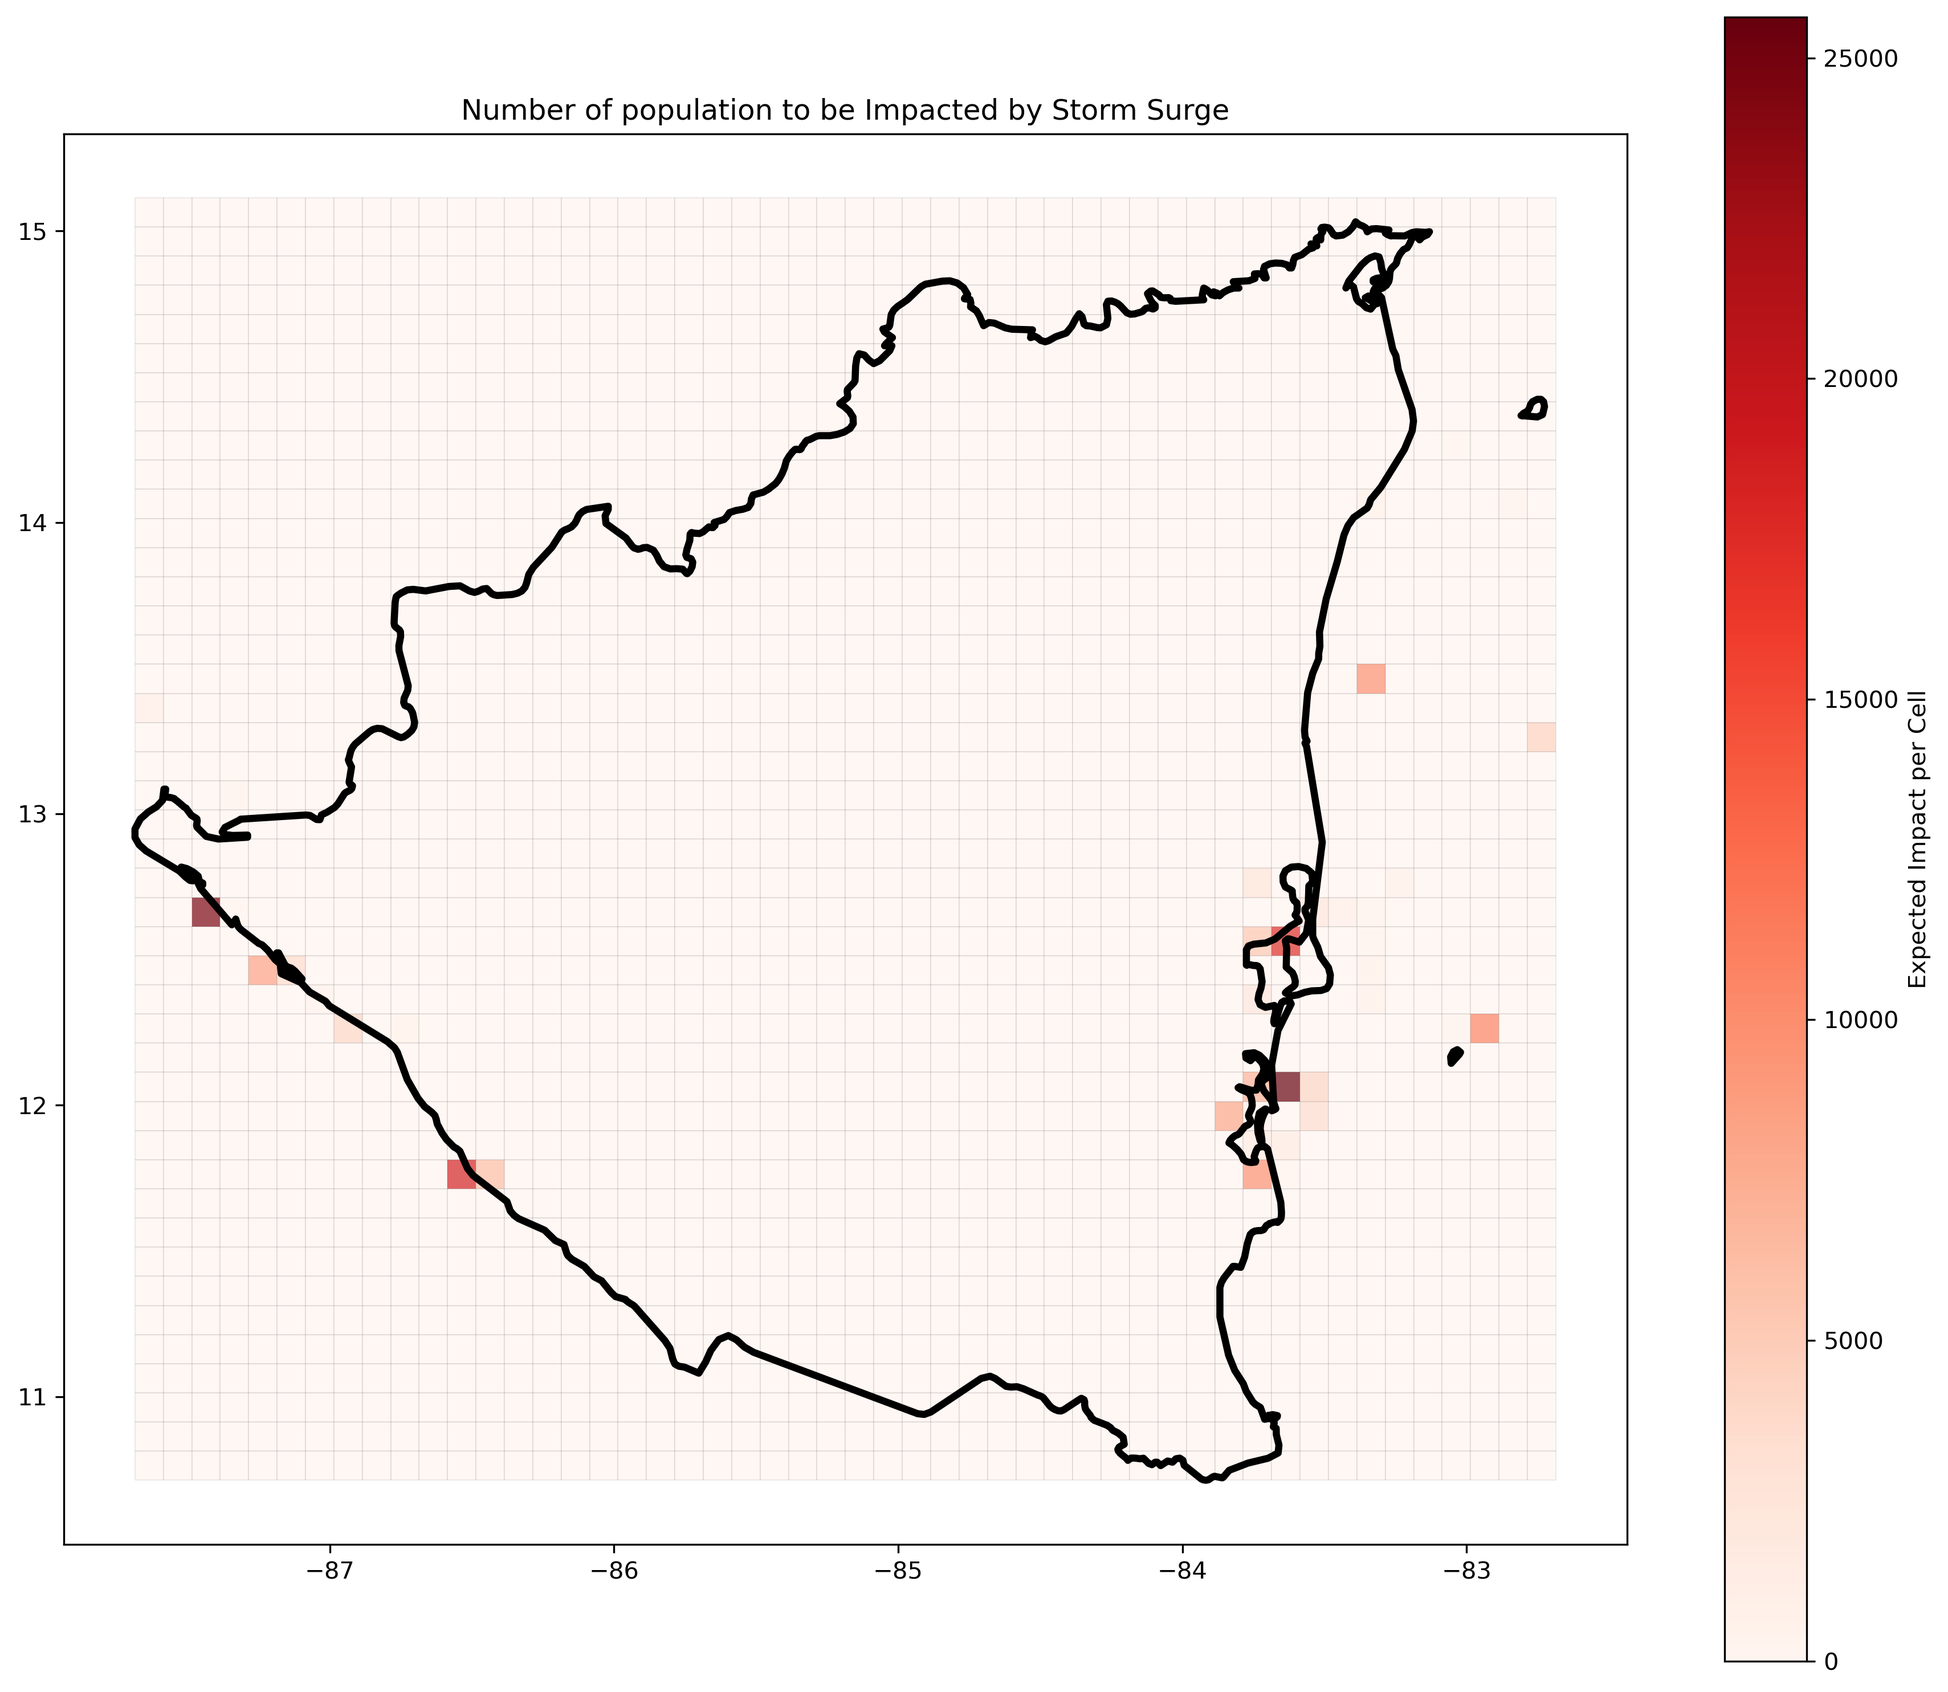
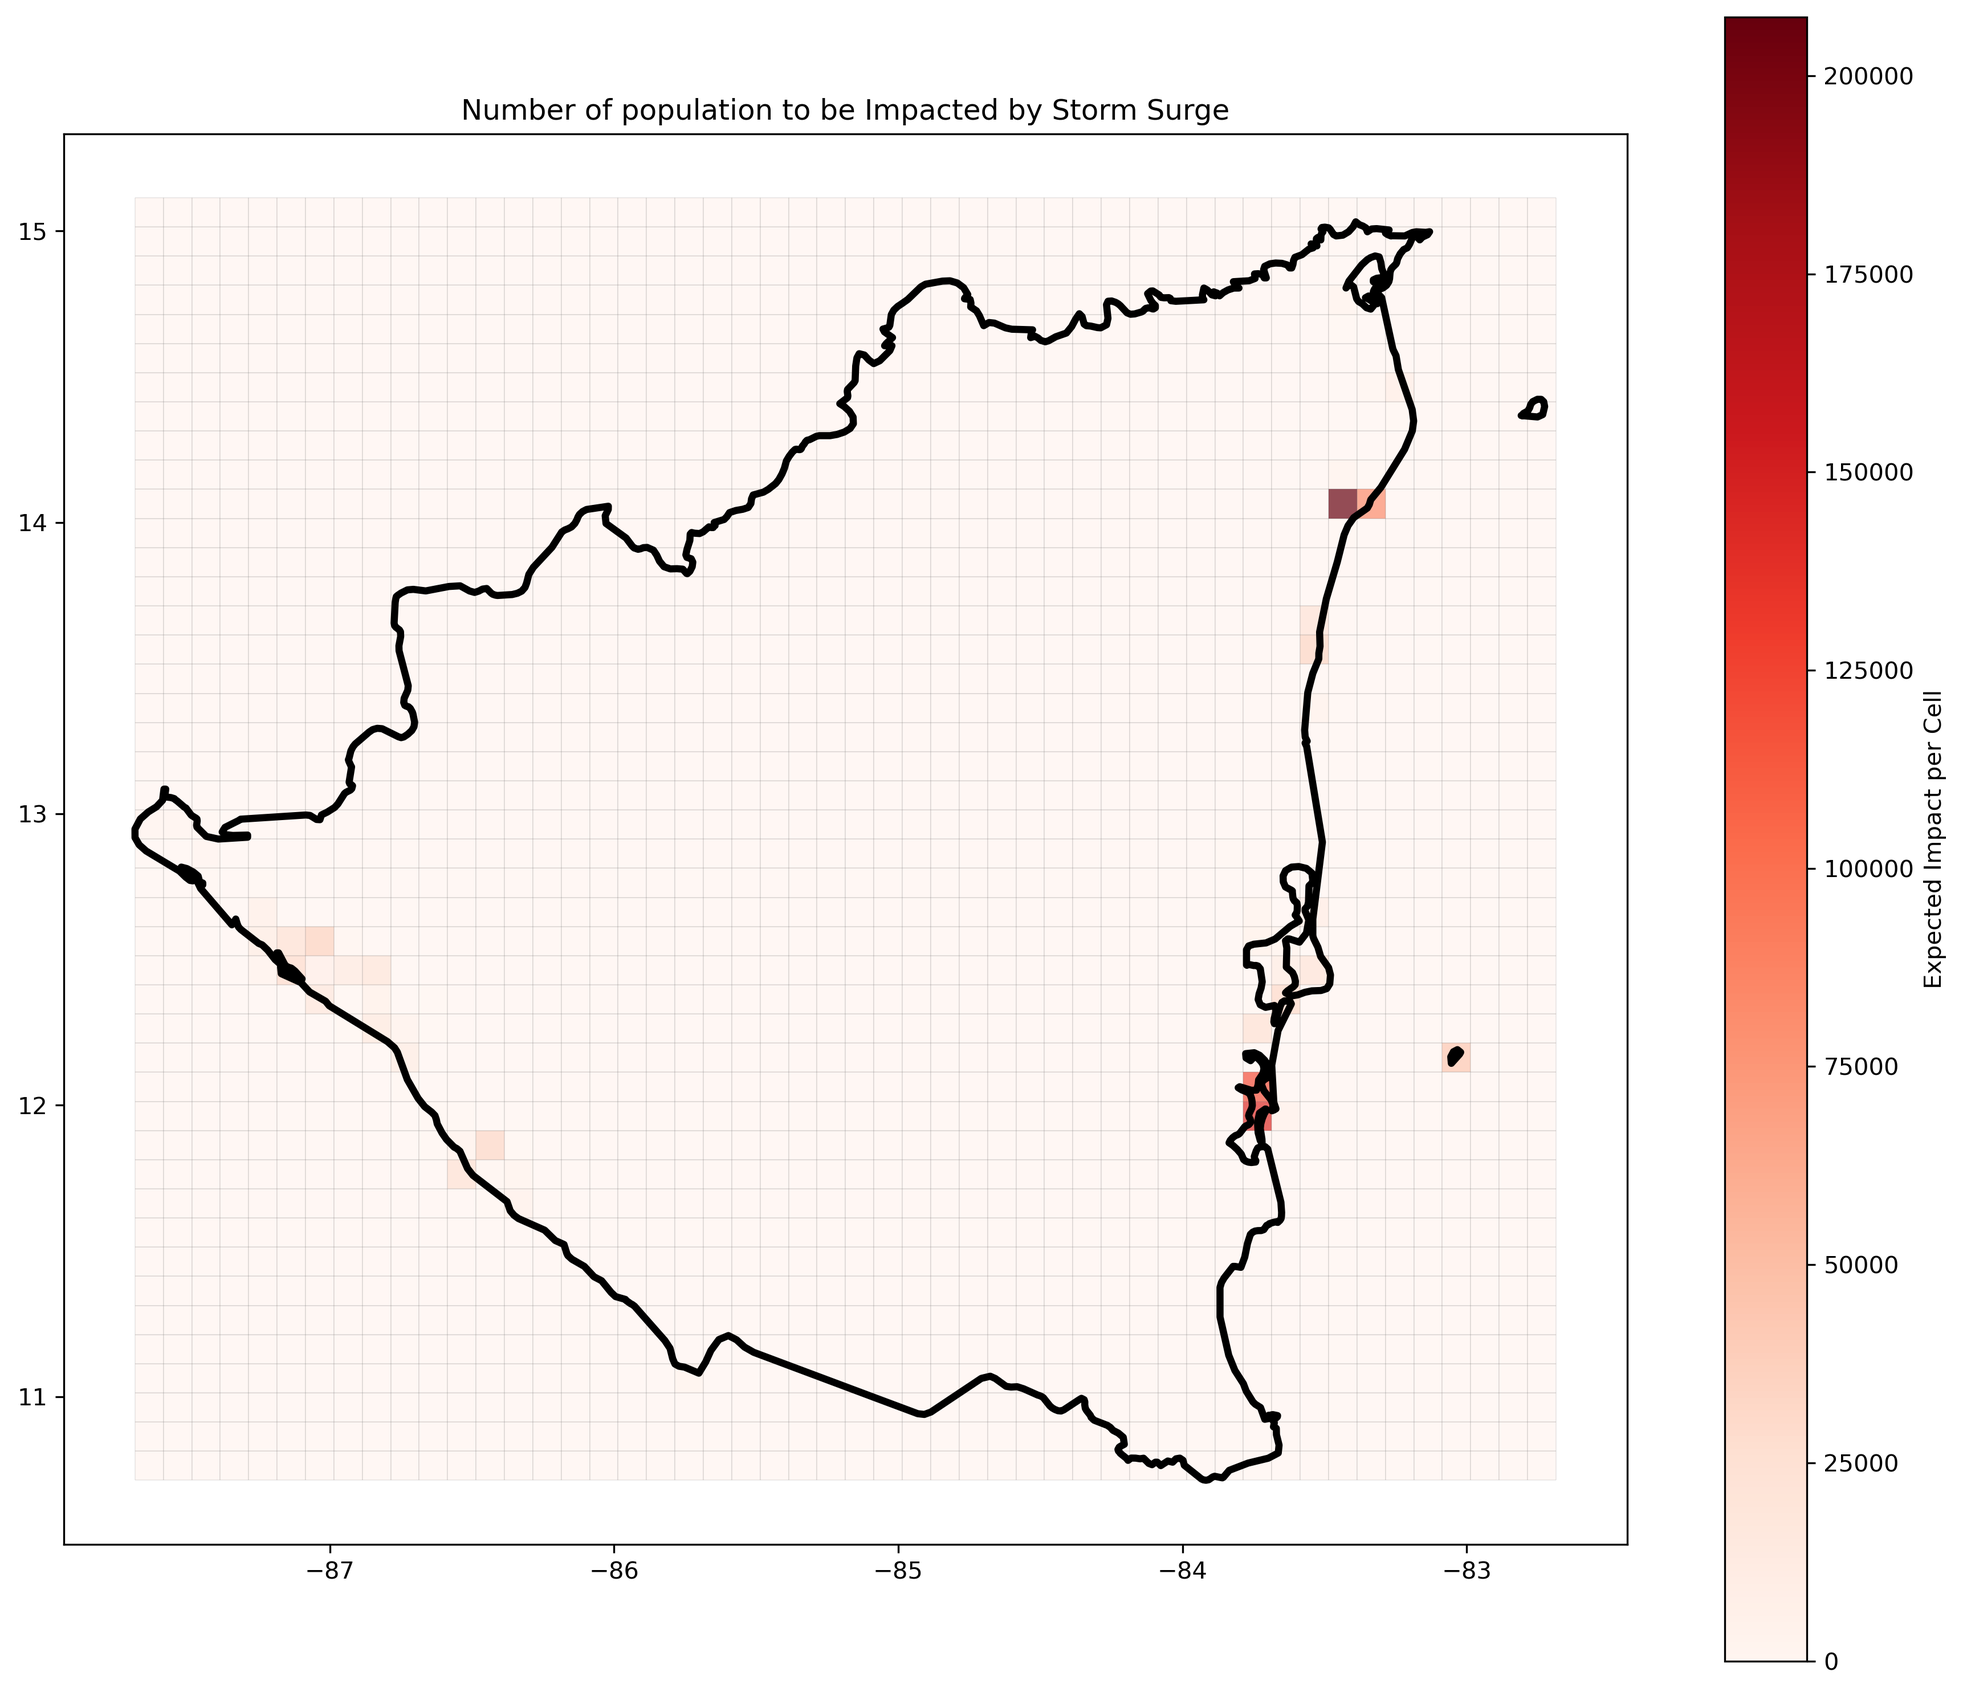
exposure x vulnerability combination error fixed

diff --git a/src/impact_analysis/layers/surge.py b/src/impact_analysis/layers/surge.py
@@ -908,6 +908,12 @@ class SurgeLayer(ExposureLayer):
         all_surge_fields = [r['final_surge_field'] for r in self.results.values()]
         return np.mean([field > threshold for field in all_surge_fields], axis=0)
 
+    def get_plot_data(self) -> Tuple[str, np.ndarray]:
+        """Return data column name and values for plotting."""
+        grid_gdf = self.compute_grid()
+        # Return all surge values - don't filter by population for exposure visualization
+        return "probability", grid_gdf["probability"].values
+
     def get_plot_metadata(self) -> Dict[str, Any]:
         """Return metadata for plotting this exposure layer."""
         return {
@@ -927,7 +933,7 @@ class SurgeLayer(ExposureLayer):
         plot_layer_with_scales(self, output_dir=output_dir)
         
     def compute_grid(self) -> gpd.GeoDataFrame:
-        """Compute the surge exposure grid using standard grid system."""
+        """Compute the surge exposure grid using the same grid system as vulnerability layers."""
         try:
             # Get interpolated surge data with proper coastal buffer
             interpolated_surge = self._get_interpolated_surge_data()
@@ -938,62 +944,59 @@ class SurgeLayer(ExposureLayer):
                 from shapely.geometry import Point
                 return gpd.GeoDataFrame({'probability': [0.0]}, geometry=[Point(0, 0)], crs="EPSG:4326")
             
-            # Use the same grid system as vulnerability layers (same as flood layer)
+            # Use the EXACT same grid system as vulnerability layers
+            from src.impact_analysis.layers.population import PopulationVulnerabilityLayer
             from src.utils.hurricane_geom import get_nicaragua_boundary
             from src.utils.config_utils import get_config_value
             from shapely.geometry import box
             
+            # Create a temporary population layer to get the exact same grid
+            temp_pop_layer = PopulationVulnerabilityLayer(self.config)
+            vulnerability_grid = temp_pop_layer.compute_grid()
+            
+            # Use the vulnerability grid's coordinate system and bounds
             nicaragua_gdf = get_nicaragua_boundary()
             minx, miny, maxx, maxy = nicaragua_gdf.total_bounds
             
-            # Use the same grid resolution as other layers
-            if self.config is None:
-                grid_res = 0.1  # Default fallback
-            else:
-                grid_res = get_config_value(self.config, "impact_analysis.grid.resolution_degrees")
-                if grid_res is None:
-                    grid_res = 0.1  # Fallback if config value not found
+            # Use the same grid resolution as vulnerability layers
+            grid_res = get_config_value(self.config, "impact_analysis.grid.resolution_degrees")
+            if grid_res is None:
+                grid_res = 0.1  # Fallback
             
-            # Create grid using standard approach (same as flood layer)
-            print(f"DEBUG: Creating grid with bounds: {minx}, {miny}, {maxx}, {maxy}")
-            print(f"DEBUG: Grid resolution: {grid_res}")
-            print(f"DEBUG: Config is None: {self.config is None}")
-            
+            # Create grid using EXACT same approach as vulnerability layers
             grid_cells = []
             x_coords = np.arange(minx, maxx, grid_res)
             y_coords = np.arange(miny, maxy, grid_res)
-            
-            print(f"DEBUG: x_coords range: {x_coords[0]} to {x_coords[-1]}, {len(x_coords)} points")
-            print(f"DEBUG: y_coords range: {y_coords[0]} to {y_coords[-1]}, {len(y_coords)} points")
             
             for x in x_coords:
                 for y in y_coords:
                     grid_cells.append(box(x, y, x + grid_res, y + grid_res))
             
-            # Create GeoDataFrame with standard grid
+            # Create GeoDataFrame with same grid as vulnerability layers
             grid_gdf = gpd.GeoDataFrame(grid_cells, columns=["geometry"], crs="EPSG:4326")
             
-            # Map surge data to grid cells
+            # Map surge data to vulnerability grid cells
             probabilities = []
             for cell in grid_gdf.geometry:
-                # Find corresponding surge value from interpolated data
-                # Map grid coordinates to interpolated surge array indices
-                comp_minx, comp_maxx = -89.93, -73.83
-                comp_miny, comp_maxy = 7.78, 18.97
-                
                 # Get cell center
                 center = cell.centroid
                 x, y = center.x, center.y
                 
+                # Map to interpolated surge data coordinates
+                # Interpolated surge data bounds and resolution
+                surge_minx, surge_maxx = -87.686, -82.726
+                surge_miny, surge_maxy = 10.713, 15.113
+                surge_res = 0.1
+                
                 # Calculate indices in interpolated surge array
-                i = int((x - comp_minx) / (comp_maxx - comp_minx) * 50)
-                j = int((y - comp_miny) / (comp_maxy - comp_miny) * 44)
+                i = int((x - surge_minx) / (surge_maxx - surge_minx) * 50)
+                j = int((y - surge_miny) / (surge_maxy - surge_miny) * 44)
                 
                 # Clamp indices to valid range
                 i = max(0, min(i, 49))
                 j = max(0, min(j, 43))
                 
-                # Get surge value
+                # Get surge value from interpolated data
                 surge_value = interpolated_surge[j, i]
                 probabilities.append(surge_value)
             
@@ -1196,6 +1199,10 @@ class SurgeLayer(ExposureLayer):
                 print(f"  Interpolated surge data: {interpolated_file}")
                 print(f"  Interpolated surge statistics: {stats_file}")
                 
+                # Create mean and max surge visualizations for final results
+                results_dir = Path("data/results/impact_analysis/surge_population_ensemble")
+                self._create_mean_max_visualizations(results_dir)
+                
         except Exception as e:
             print(f"  Warning: Could not save interpolated surge data: {e}")
 
@@ -1276,6 +1283,104 @@ class SurgeLayer(ExposureLayer):
         print(f"Reshaped surge shape: {reshaped_surge.shape}")
         
         return reshaped_surge
+
+    def _get_raw_surge_data(self):
+        """Get raw surge heights (in meters) without probability conversion."""
+        # Load the ensemble mean surge data (raw heights)
+        surge_file = Path("data/preprocessed/surge/nicaragua_surge_ensemble_mean.npy")
+        if not surge_file.exists():
+            print("Surge ensemble mean file not found")
+            return None
+        
+        surge_data = np.load(surge_file)
+        
+        # Get Nicaragua bounds for target grid
+        nicaragua_gdf = get_nicaragua_boundary()
+        minx, miny, maxx, maxy = nicaragua_gdf.total_bounds
+        
+        resolution = 0.1
+        lons = np.arange(minx, maxx + resolution, resolution)
+        lats = np.arange(miny, maxy + resolution, resolution)
+        
+        # Create target grid points
+        grid_lons = []
+        grid_lats = []
+        for j in range(len(lats) - 1):  # latitude (rows)
+            for i in range(len(lons) - 1):  # longitude (columns)
+                grid_lons.append((lons[i] + lons[i+1]) / 2)
+                grid_lats.append((lats[j] + lats[j+1]) / 2)
+        
+        # Map raw surge data to grid cells (same mapping as _get_interpolated_surge_data)
+        raw_surge = []
+        for cell_lon, cell_lat in zip(grid_lons, grid_lats):
+            # Map grid coordinates to surge array indices
+            comp_minx, comp_maxx = -89.93, -73.83
+            comp_miny, comp_maxy = 7.78, 18.97
+            
+            # Calculate indices in surge array
+            i = int((cell_lon - comp_minx) / (comp_maxx - comp_minx) * 349)
+            j = int((cell_lat - comp_miny) / (comp_maxy - comp_miny) * 249)
+            
+            # Clamp indices to valid range
+            i = max(0, min(i, 348))
+            j = max(0, min(j, 248))
+            
+            # Get raw surge value (actual height in meters)
+            surge_value = surge_data[j, i]
+            raw_surge.append(surge_value)
+        
+        # Reshape to grid
+        reshaped_surge = np.array(raw_surge).reshape(len(lats)-1, len(lons)-1)
+        
+        print(f"Raw surge range: {np.min(reshaped_surge):.3f}m to {np.max(reshaped_surge):.3f}m")
+        print(f"Raw surge cells > 0: {np.sum(reshaped_surge > 0)}")
+        
+        return reshaped_surge
+
+    def _get_raw_max_surge_data(self):
+        """Get raw maximum surge heights (in meters) across all ensemble members."""
+        try:
+            # Load individual ensemble member files
+            surge_dir = Path("data/preprocessed/surge")
+            max_surge = None
+            
+            # Find all individual member files
+            member_files = list(surge_dir.glob("nicaragua_surge_ensemble_member_*.tif"))
+            
+            if not member_files:
+                print("No individual member files found, using ensemble mean for max")
+                return self._get_raw_surge_data()
+            
+            print(f"Loading {len(member_files)} ensemble members for raw max calculation...")
+            
+            # Load each member and track the maximum
+            for i, member_file in enumerate(member_files):
+                try:
+                    import rasterio
+                    with rasterio.open(member_file) as src:
+                        member_data = src.read(1)  # Read first band
+                        member_data = np.flipud(member_data)  # Flip for correct orientation
+                        
+                        if max_surge is None:
+                            max_surge = member_data.copy()
+                        else:
+                            max_surge = np.maximum(max_surge, member_data)
+                            
+                except Exception as e:
+                    print(f"Warning: Could not load {member_file}: {e}")
+                    continue
+            
+            if max_surge is None:
+                print("Could not load any member files, using ensemble mean")
+                return self._get_raw_surge_data()
+            
+            # Map to the same grid as mean surge
+            raw_max_surge = self._apply_inland_penetration_to_data(max_surge)
+            return raw_max_surge
+            
+        except Exception as e:
+            print(f"Error getting raw max surge data: {e}")
+            return self._get_raw_surge_data()
 
     def _create_interpolated_surge_visualization(self, output_path: Path, interpolated_surge: np.ndarray):
         """Create visualization of interpolated surge heights."""
@@ -1401,16 +1506,16 @@ class SurgeLayer(ExposureLayer):
     def _create_mean_max_visualizations(self, output_dir: Path):
         """Create mean and max surge visualizations for final results."""
         try:
-            # Load the ensemble mean surge data for mean visualization
-            mean_surge = self._get_interpolated_surge_data()
+            # Load the RAW ensemble mean surge data (actual heights in meters)
+            mean_surge = self._get_raw_surge_data()
             if mean_surge is None:
-                print("Warning: Could not get interpolated surge data for mean/max visualizations")
+                print("Warning: Could not get raw surge data for mean/max visualizations")
                 return
             
             # Load individual ensemble members for max visualization
-            max_surge = self._get_max_surge_data()
+            max_surge = self._get_raw_max_surge_data()
             if max_surge is None:
-                print("Warning: Could not get max surge data, using mean for both")
+                print("Warning: Could not get raw max surge data, using mean for both")
                 max_surge = mean_surge
             
             # Get Nicaragua bounds for grid

diff --git a/src/impact_analysis/analysis/surge_impact.py b/src/impact_analysis/analysis/surge_impact.py
@@ -245,7 +245,7 @@ class SurgeImpactAnalysis:
         
     # Required methods for ImpactLayer interface
     def compute_impact(self):
-        """Compute the impact grid using standard approach like hurricane/flood."""
+        """Compute the impact grid using spatial intersection approach."""
         if not hasattr(self, 'exposure_layer') or not hasattr(self.exposure_layer, 'results'):
             # Return empty impact grid
             from shapely.geometry import Point
@@ -258,13 +258,26 @@ class SurgeImpactAnalysis:
         # Use the correct value column for this vulnerability layer
         value_col = getattr(self.vulnerability_layer, "value_column", "school_count")
         
-        # Use standard approach: assume grids have same geometry and cell alignment
-        vulnerability = vulnerability_grid[value_col].values
-        impact_gdf = exposure_grid.copy()
-        impact_gdf["vulnerability"] = vulnerability
-        impact_gdf["expected_impact"] = (
-            impact_gdf["probability"] * impact_gdf["vulnerability"]
-        )
+        # Use spatial intersection approach for different grids
+        # Create impact GeoDataFrame using VULNERABILITY grid geometry (only where there's population)
+        impact_gdf = vulnerability_grid.copy()
+        impact_gdf['expected_impact'] = 0.0  # Initialize to zero
+        
+        # For each vulnerability cell, find overlapping exposure cells and calculate impact
+        for vuln_idx, vuln_row in vulnerability_grid.iterrows():
+            if vuln_row[value_col] > 0:  # Only process cells with population
+                vuln_geom = vuln_row.geometry
+                total_impact = 0.0
+                
+                # Find all exposure cells that overlap with this vulnerability cell
+                for exp_idx, exp_row in exposure_grid.iterrows():
+                    if exp_row['probability'] > 0 and vuln_geom.intersects(exp_row.geometry):
+                        # Calculate impact for this overlap
+                        overlap_impact = exp_row['probability'] * vuln_row[value_col]
+                        total_impact += overlap_impact
+                
+                # Assign the total impact to the vulnerability cell
+                impact_gdf.loc[vuln_idx, 'expected_impact'] = total_impact
         
         return impact_gdf
         
